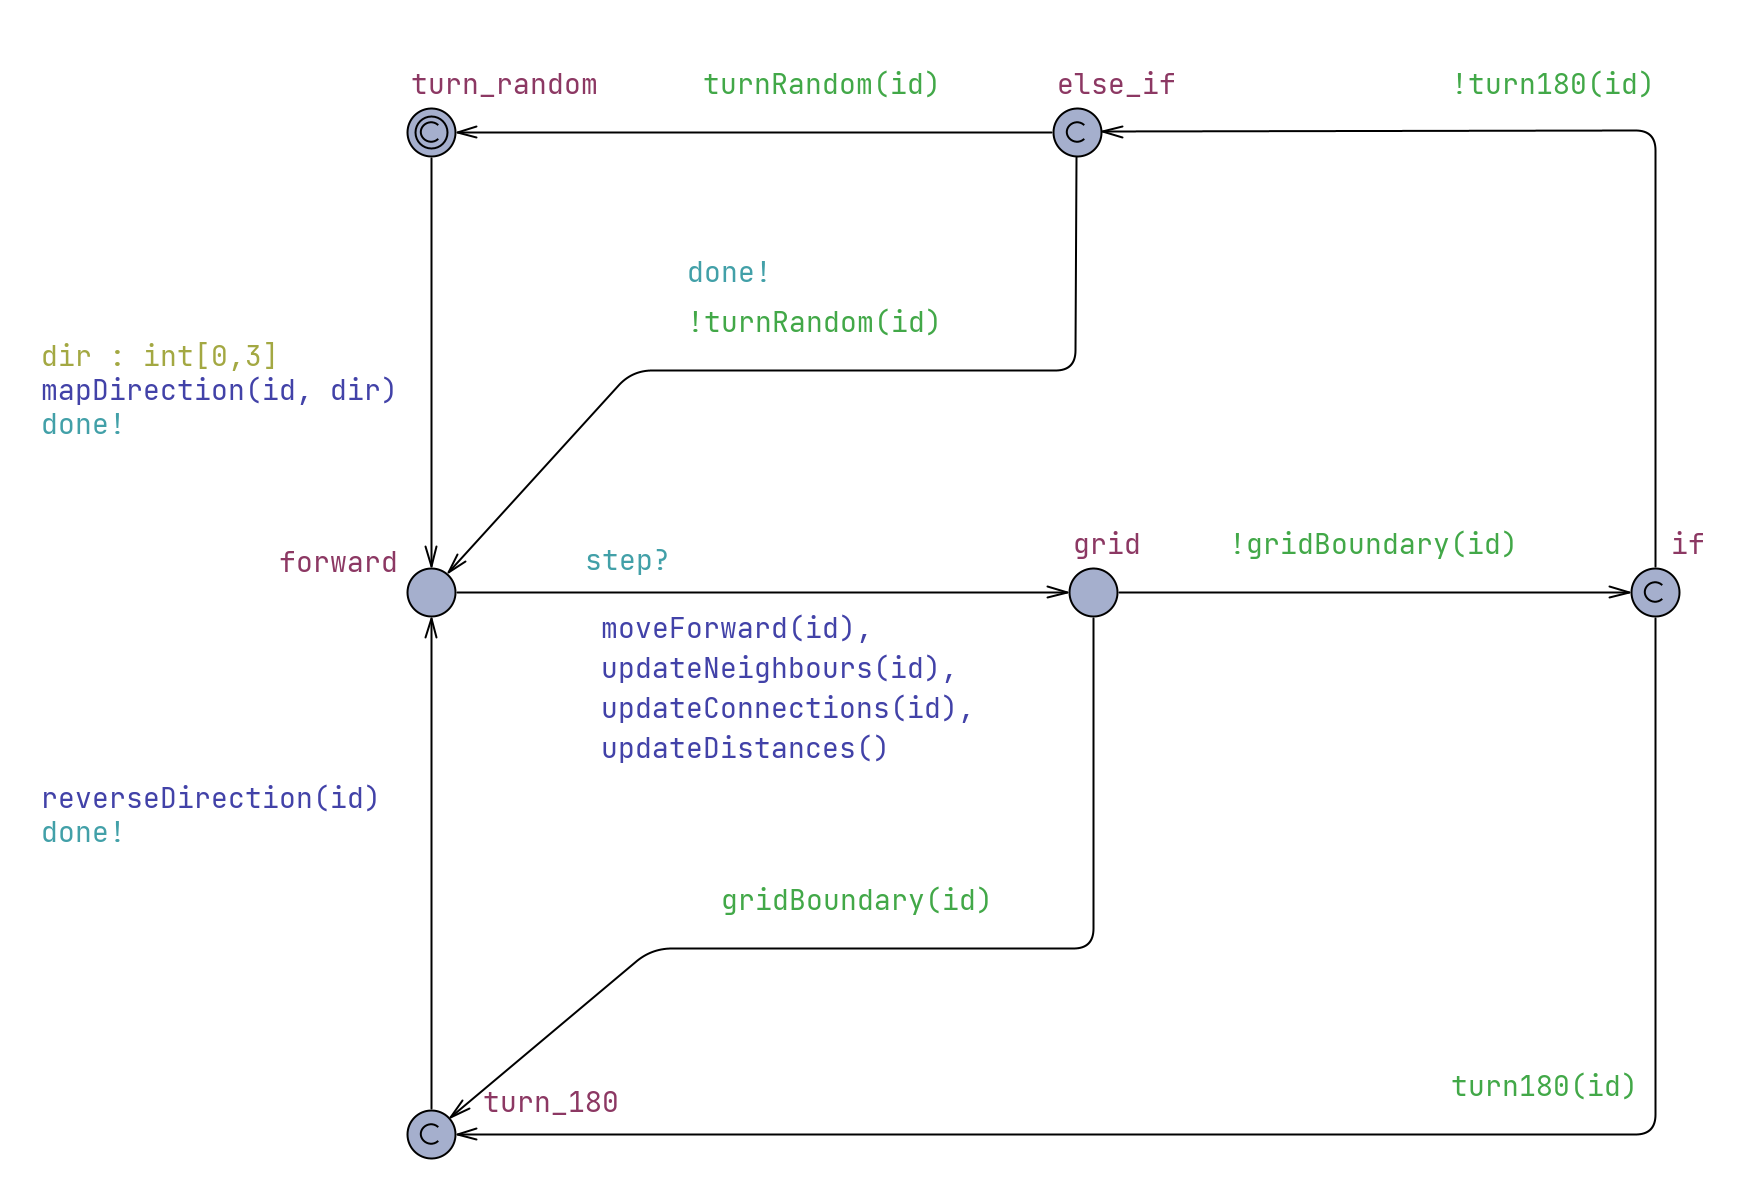
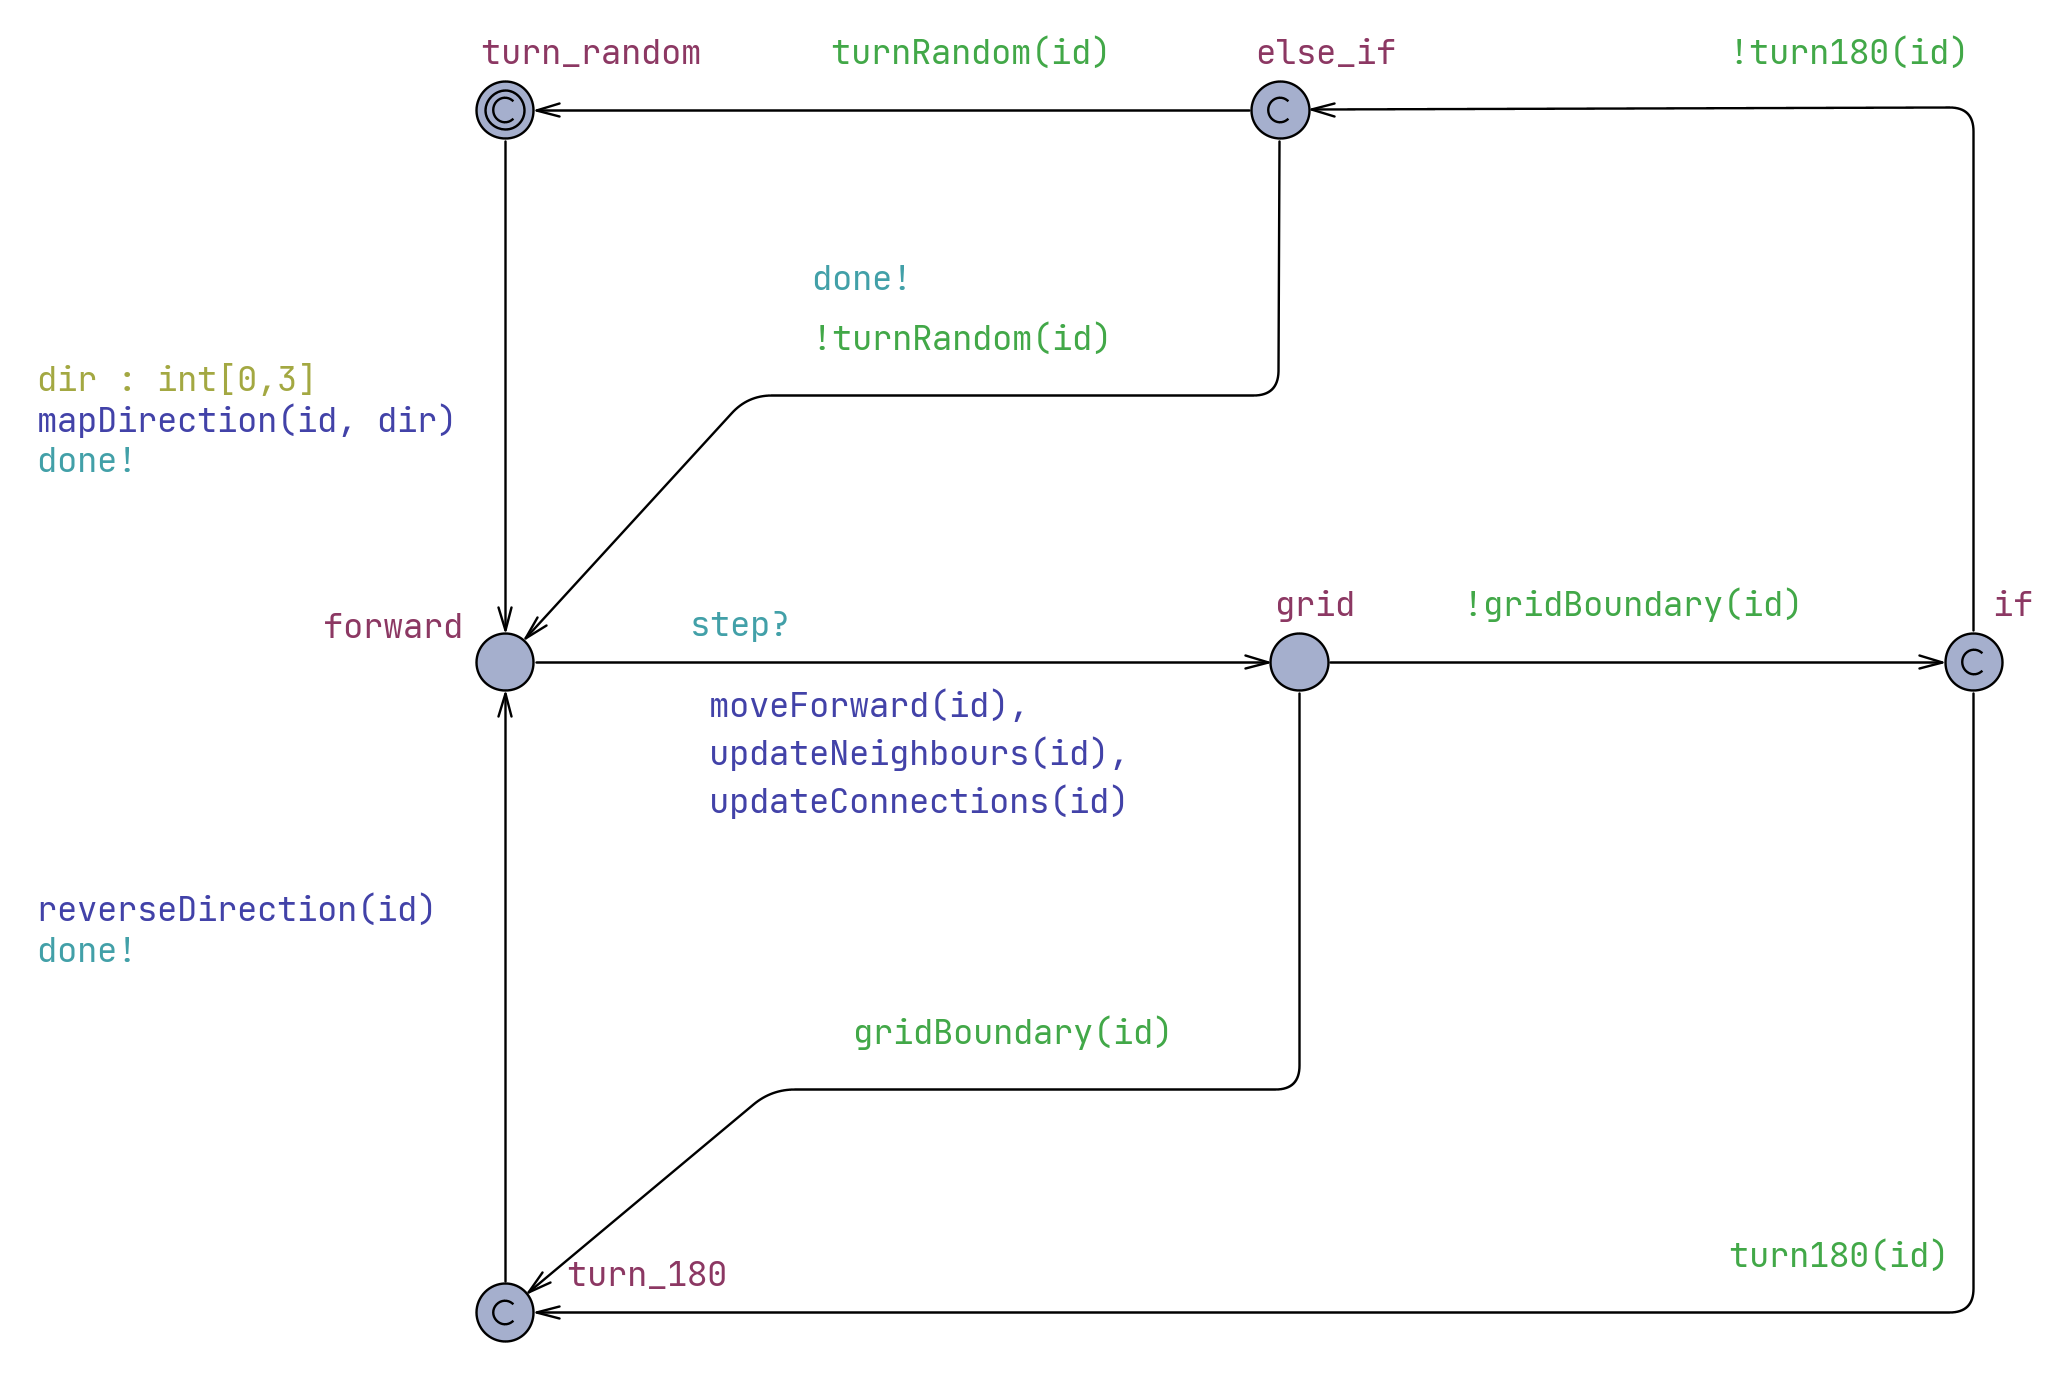
Week 43: finished Movement subsection of the Implementation section

diff --git a/Latex/Thesis/contents/implementation.tex b/Latex/Thesis/contents/implementation.tex
@@ -1,13 +1,13 @@
 \section{Implementation}
-In this section, we will describe the implementation of the timed automaton model from the previous section, shown in Figure \ref{fig:automaton}. Our tool of choice is UPPAAL, an integrated solution for modeling, simulation, and verification of timed automata. We will present the implementation of limitations imposed on the model in the following subsection.  Model variables representing its state will be described along with the most important functions.
+In this section, we will describe the implementation of the timed automaton model from the previous section, shown in Figure \ref{fig:automaton}. Our tool of choice is UPPAAL, an integrated solution for modeling, simulation, and verification of timed automata. We will present the implementation details and limitations imposed on the model in the following subsection.  Model variables representing its state will be described along with the most important functions.
 
 
 \subsection{Model}
-Implementation of the timed automaton, shown in Figure \ref{fig:implementation}, has an additional state called \texttt{grid} and global functions that abstract away the underneath complexity. This state is a consequence of imposing limitations on the environment size defined in the previous section. This allows us to reduce the state space size and perform verification. It is the biggest change made to the original algorithm, defined in Figure \ref{fig:pseudocode}. In that state, it is determined whether a robot has reached the boundary of the grid. If yes, the robot will transition to the state \texttt{turn\_180} and change its direction by 180 degrees as it cannot continue moving forward outside of its environment. If a robot has not reached the boundary of its environment it will transition to the \texttt{if} state where it will follow the original rules of the algorithm.
+The implementation of the timed automaton, shown in Figure \ref{fig:implementation}, includes an additional state called \texttt{grid}, which is not present in the automaton depicted in Figure \ref{fig:automaton}. Global functions of the implementation abstract away the underlying complexity. The  \texttt{grid} state is a consequence of imposing limitations on the environment size defined in the previous section. This allows us to reduce the state space size and perform verification. It is the biggest change made to the original algorithm, defined in Figure \ref{fig:pseudocode}. In that state, it is determined whether a robot has reached the boundary of the grid. If yes, the robot will transition to the state \texttt{turn\_180} and change its direction by 180 degrees as it cannot continue moving forward outside of its environment. If a robot has not reached the boundary of its environment it will transition to the \texttt{if} state where it will transition to further states based on the original rules of the algorithm.
 
 \begin{figure}[H]
 \caption{Asynchronous implementation of the Beta algorithm}
-\includegraphics[width=\textwidth]{images/implementation.png}
+\includegraphics[width=\textwidth]{images/implementation_asynchronous.png}
 \label{fig:implementation}
 \end{figure}
 
@@ -28,6 +28,54 @@ The implementation of the Beta algorithm presented in Figure \ref{fig:implementa
 \end{figure}
 
 \subsection{Movement}
+Before explaining the functions that control the movement and direction of the robot, we will first introduce the data structures used by these functions.
+\\\\
+\texttt{x[N]} - list of x-axis coordinates for each robot;\\
+\texttt{y[N]} - list of y-axis coordinates for each robot;\\
+\texttt{x\_dir[N]} - list of x-axis directions for each robot;\\
+\texttt{y\_dir[N]} - list of y-axis directions for each robot;\\
+\texttt{STEP} - step size, uniform for all robots;\\\\
+\noindent
+Three global functions govern the movement of the robot, namely, \texttt{mapDirection}, \texttt{reverseDirection}, \texttt{moveForward}. The \texttt{mapDirection} function is triggered upon transition from state \texttt{turn\_random} to state \texttt{forward} and provided with \texttt{id} of the robot and randomly drawn integer \texttt{dir} that will be mapped to one of four directions. The \texttt{reverseDirection} function is triggered upon transition from state \texttt{turn\_180} to state \texttt{forward} and provided with \texttt{id} of the robot whose direction is to be reversed. The \texttt{moveForward} function is triggered upon transition from state \texttt{forward} to state \texttt{grid} and provided with \texttt{id} of the robot that is to be moved forward. The implementation of those functions is shown in Figure \ref{fig:movement_implementation}.
+
+\begin{figure}
+\caption{Implementation of functions controlling robot movement}
+\begin{lstlisting}[style=code]
+void mapDirection(int id, int dir){
+    if (dir == 0){
+		// up
+        x_dir[id] = 0;
+        y_dir[id] = 1;
+    }
+    if (dir == 1){
+		// right
+        x_dir[id] = 1;
+        y_dir[id] = 0;
+    }
+    if (dir == 2){
+		// down
+        x_dir[id] = 0;
+        y_dir[id] = -1;
+    }
+    if (dir == 3){
+		// left
+        x_dir[id] = -1;
+        y_dir[id] = 0;
+    }
+}
+
+void reverseDirection(int id){
+	x_dir[id] *= -1;
+	y_dir[id] *= -1;
+}
+
+void moveForward(int id){
+	x[id] += x_dir[id] * STEP;
+	y[id] += y_dir[id] * STEP;
+}
+\end{lstlisting}
+\label{fig:movement_implementation}
+\end{figure}
 
 
 
